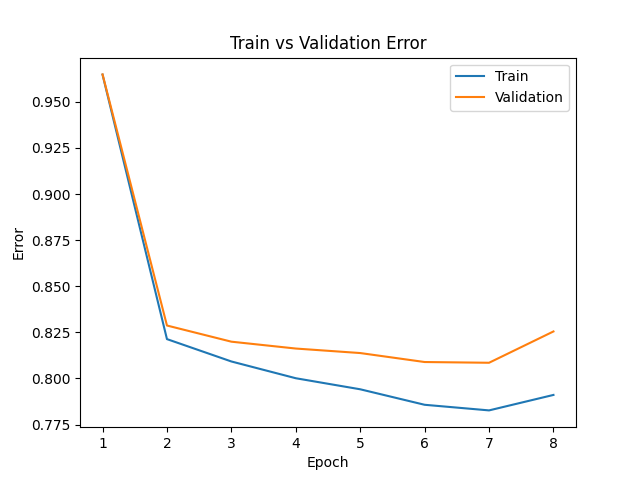
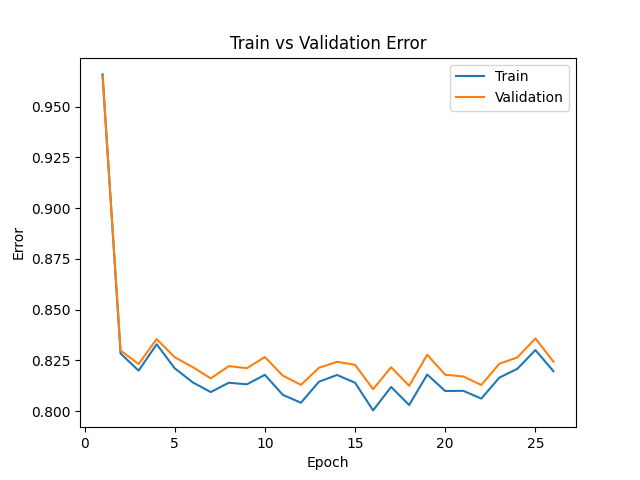
added parallel loading, increased batch size and tested with bigger dataset.

diff --git a/atomicdeep.py b/atomicdeep.py
@@ -19,16 +19,9 @@ import logging
 import multiprocessing
 
 
-logging.basicConfig(format='%(asctime)s | %(levelname)s: %(message)s', level=logging.NOTSET)
 
-
-device = torch.device("cuda" if torch.cuda.is_available() else "cpu")
-logging.info(f"Using device {device}")
-
-
-
-GAME_PER_FILE = 1000
-DATAPOINTS = 500000
+GAME_PER_FILE = 5000
+DATAPOINTS = 1000000
 
 
 class ChessDataset(Dataset):
@@ -48,10 +41,6 @@ class ChessDataset(Dataset):
 
 
 
-ds = ChessDataset()
-ds.__getitem__(10000)[1]
-print('label_data: ', ds.__getitem__(10000)[1])
-
 def get_data_loader(batch_size):
   dataset = ChessDataset()
   total_size = len(dataset)
@@ -67,10 +56,10 @@ def get_data_loader(batch_size):
   # figure out the num workers for the data loader
 
   train_loader = DataLoader(
-      train_dataset, batch_size= batch_size, shuffle=True
+      train_dataset, batch_size= batch_size, shuffle=True, num_workers=4
   )
   valid_loader = DataLoader(
-      valid_dataset, batch_size = batch_size, shuffle=True
+      valid_dataset, batch_size = batch_size, shuffle=True, num_workers=4
   )
   test_loader = DataLoader(
       test_dataset, batch_size = batch_size,  shuffle=True
@@ -144,6 +133,8 @@ def eval(model, dataloader, criterion):
     model.eval()
     total_loss = 0
     total_error = 0
+    correct = 0
+    total = 0
     with torch.no_grad():
         for data, target in dataloader:
             data, target = data.to(device), target.to(device)
@@ -152,26 +143,16 @@ def eval(model, dataloader, criterion):
             total_loss += loss.item() * data.size(0)
             error = torch.abs(output - target).sum()
             total_error += error.item()
+            predicted = torch.sign(output)
+            correct += (predicted == target).sum().item()
+            total += target.size(0)
     n_samples = len(dataloader.dataset)
     avg_loss = total_loss / n_samples
     avg_error = total_error / n_samples
+    avg_accuracy = correct / total
     model.train()
-    return avg_loss, avg_error
+    return avg_loss, avg_error, avg_accuracy
 
-def accuracy(net, loader):
-    correct = 0
-    total = 0
-    net.eval()
-    with torch.no_grad():
-        for inputs, labels in loader:
-            inputs = inputs.to(device)
-            labels = labels.to(device)
-            outputs = net(inputs)
-            predicted = torch.sign(outputs)
-            correct += (predicted == labels).sum().item()
-            total += labels.size(0)
-    net.train()
-    return correct / total
 
 
 
@@ -200,10 +181,11 @@ def train_net(net, batch_size=64, learning_rate=0.01, num_epochs=30):
     val_acc = np.zeros(num_epochs)
 
     epoch = 0
-    train_err[epoch], train_loss[epoch] = eval(net, train_loader, criterion)
-    train_acc[epoch] = accuracy(net, train_loader)
-    val_err[epoch], val_loss[epoch] = eval(net, val_loader, criterion)
-    val_acc[epoch] = accuracy(net, val_loader)
+    print('neural net device', next(net.parameters()).device)
+    train_err[epoch], train_loss[epoch], train_acc[epoch] = eval(net, train_loader, criterion)
+    val_err[epoch], val_loss[epoch],val_acc[epoch] = eval(net, val_loader, criterion)
+    
+    print('neural net device', next(net.parameters()).device)
     logging.info(("Before training, Epoch {}: Train err: {}, Train loss: {}, Train acc: {} \n"+
             "Validation err: {}, Valid loss: {}, Validation acc: {}").format(
                 epoch,
@@ -241,10 +223,8 @@ def train_net(net, batch_size=64, learning_rate=0.01, num_epochs=30):
             loss.backward()
             optimizer.step()    
        
-        train_err[epoch], train_loss[epoch] = eval(net, train_loader, criterion)
-        train_acc[epoch] = accuracy(net, train_loader)
-        val_err[epoch], val_loss[epoch] = eval(net, val_loader, criterion)
-        val_acc[epoch] = accuracy(net, val_loader)
+        train_err[epoch], train_loss[epoch], train_acc[epoch] = eval(net, train_loader, criterion)
+        val_err[epoch], val_loss[epoch],val_acc[epoch] = eval(net, val_loader, criterion)
         logging.info(("Epoch {}: Train err: {}, Train loss: {}, Train acc: {} \n"+
                "Validation err: {}, Valid loss: {}, Validation acc: {}").format(
                    epoch + 1,
@@ -270,41 +250,87 @@ def train_net(net, batch_size=64, learning_rate=0.01, num_epochs=30):
     np.savetxt("{}_val_err.csv".format(model_path), val_err)
     np.savetxt("{}_val_loss.csv".format(model_path), val_loss)
 
-class ChessNet(nn.Module):
+# class ChessNet(nn.Module):
+#     def __init__(self):
+#         super(ChessNet, self).__init__()
+#         self.name = "ChessNet"
+#         self.conv1 = nn.Conv2d(in_channels=17, out_channels=32, kernel_size=3, padding=1)
+#         self.pool1 = nn.MaxPool2d(kernel_size=2, stride=2)
+#         self.conv2 = nn.Conv2d(in_channels=32, out_channels=64, kernel_size=3, padding=1)
+#         self.pool2 = nn.MaxPool2d(kernel_size=2, stride=2)
+#         self.fc1 = nn.Linear(in_features=64 * 2 * 2, out_features=256)
+#         self.fc2 = nn.Linear(in_features=256, out_features=1)
+        
+#     def forward(self, x):
+#         x = self.conv1(x)
+#         x = nn.functional.relu(x)
+#         x = self.pool1(x)
+#         x = self.conv2(x)
+#         x = nn.functional.relu(x)
+#         x = self.pool2(x)
+#         x = x.view(-1, 64 * 2 * 2)
+#         x = self.fc1(x)
+#         x = nn.functional.relu(x)
+#         x = self.fc2(x)
+#         # removed tanh because it was saturating, so the model could not learn
+#         return x
+
+import torch.nn.functional as F
+class ChessNet2(nn.Module):
     def __init__(self):
-        super(ChessNet, self).__init__()
-        self.name = "ChessNet"
-        self.conv1 = nn.Conv2d(in_channels=17, out_channels=32, kernel_size=3, padding=1)
-        self.pool1 = nn.MaxPool2d(kernel_size=2, stride=2)
-        self.conv2 = nn.Conv2d(in_channels=32, out_channels=64, kernel_size=3, padding=1)
-        self.pool2 = nn.MaxPool2d(kernel_size=2, stride=2)
-        self.fc1 = nn.Linear(in_features=64 * 2 * 2, out_features=256)
-        self.fc2 = nn.Linear(in_features=256, out_features=1)
+        super(ChessNet2, self).__init__()
+        self.name = "ChessNet2"
+        self.conv_layers = nn.Sequential(
+            nn.Conv2d(in_channels=17, out_channels=32, kernel_size=3, padding=1),
+            nn.ReLU(),
+            nn.MaxPool2d(kernel_size=2, stride=2, padding=1),
+            nn.Conv2d(in_channels=32, out_channels=64, kernel_size=3, padding=1),
+            nn.ReLU(),
+            nn.MaxPool2d(kernel_size=2, stride=2, padding=1),
+            nn.Conv2d(in_channels=64, out_channels=128, kernel_size=3, padding=1),
+            nn.ReLU(),
+            nn.MaxPool2d(kernel_size=2, stride=2, padding=1),
+            nn.Conv2d(in_channels=128, out_channels=256, kernel_size=3, padding=1),
+            nn.ReLU(),
+            nn.MaxPool2d(kernel_size=2, stride=2, padding=1)
+        )
+        
+        self.fc_layers = nn.Sequential(
+            nn.Linear(in_features=256 * 2 * 2, out_features=512),
+            nn.ReLU(),
+            nn.Dropout(p=0.5),
+            nn.Linear(in_features=512, out_features=128),
+            nn.ReLU(),
+            nn.Linear(in_features=128, out_features=1)
+        )
         
     def forward(self, x):
-        x = self.conv1(x)
-        x = nn.functional.relu(x)
-        x = self.pool1(x)
-        x = self.conv2(x)
-        x = nn.functional.relu(x)
-        x = self.pool2(x)
-        x = x.view(-1, 64 * 2 * 2)
-        x = self.fc1(x)
-        x = nn.functional.relu(x)
-        x = self.fc2(x)
-        # removed tanh because it was saturating, so the model could not learn
+        x = self.conv_layers(x)
+        x = x.view(-1, 256 * 2 * 2)
+        x = self.fc_layers(x)
         return x
 
 
+
 if __name__ == "__main__":
+
+    logging.basicConfig(format='%(asctime)s | %(levelname)s: %(message)s', level=logging.NOTSET)
+
+
+    device = torch.device("cuda" if torch.cuda.is_available() else "cpu")
+    logging.info(f"Using device {device}")
+
+    ds = ChessDataset()
+    ds.__getitem__(10000)[1]
+    print('label_data: ', ds.__getitem__(10000)[1])
+
     # multiprocessing.freeze_support()
-    neuralnet = ChessNet()
+    neuralnet = ChessNet2()
     neuralnet.to(device)
     ## good parameters: batch_size = 100, learning_rate = 0.01, num_epochs = 20
-    batch_size = 500
+    batch_size = 1000
     learning_rate = 0.01
-    num_epochs = 7
-
+    num_epochs = 25
 
 
     # print number of trainable parameters
@@ -315,5 +341,9 @@ if __name__ == "__main__":
 
     small_model_path = get_model_name(neuralnet.name, batch_size=batch_size, learning_rate=learning_rate, epoch=num_epochs)
     plot_training_curve(small_model_path)
+
+    sample_in = (ds.__getitem__(0)[0]).unsqueeze(0).to(device)
+    sample_out = neuralnet(sample_in)
+    print(sample_out, ds.__getitem__(0)[1])
 
     #!rm -rf /content/*

diff --git a/README.md b/README.md
@@ -31,7 +31,7 @@ We are using the evaluation function on atomicdeep.py to evaluate the board from
 
 The model is currently able to overfit on a small part of the dataset(3000 boards), but not on larger datasets (100 000 boards). Therefore we need a more complex neural net.
 
-Latest test: ran on 500 000 boards from games where both players had elo greater than 1500, with 1000 games per file, batch size 500, learning rate 0.01 and on 7 epochs. It took 4289 seconds, or 71.5 minutes to run the entire atomicdeep.py code.
+Latest test: ran on 1 000 000 boards from games where both players had elo greater than 1500, with 5000 games per file, batch size 1000, learning rate 0.01 and on 20 epochs. It took about 1h40mins to run the entire atomicdeep.py code.
 
 | ![err](model_error.png) | ![loss](model_loss.png) | ![acc](model_acc.png) |
 |-----------------------------------------------------------------------------------------------------------------------|-------------------------------------------------------------------------------------------------------------------|-------------------------------------------------------------------------------------------------------------------|
@@ -50,14 +50,12 @@ Install PyTorch from: https://pytorch.org/get-started/locally/ (don't forget to 
 ## Ideas:
 - Use 3D convolutions to capture the relationships between pieces
 - Experiment with both 3x3 and 7x7 convolutions in the first layer to capture piece surroundings and long range relationships
-- Try using larger batch size to fully use the GPU
-- Try using num_workers != 1 for the data loading
 - Use PyTorch's profiling option to see how the resources are used
 - Try to run training on SSD instead of HDD
 
 ## Current issues:
 - Getting the error, loss, accuracy on both validation and training takes more time than training itself. We can probably get the metrics for the training set inside of the training loop.
-- Hardware use. Currently, during the training phase, only up to 3% of my GPU (nvidia gtx 1070) is used. Need to find a way to juice as much performance as possible out of it. There probably is a bottle neck somewhere in the code. My first assumption would be the data loading, but my disk isn't used too much during training (remains around 2.4 MB/s). For some reason my CPU is used a lot.
+- Hardware use. Currently, during the training phase, only up to 3% of my GPU (nvidia gtx 1070) is used. Need to find a way to juice as much performance as possible out of it. There probably is a bottle neck somewhere in the code. Need better CPU or faster way of loading data into GPU.
 
 
 
